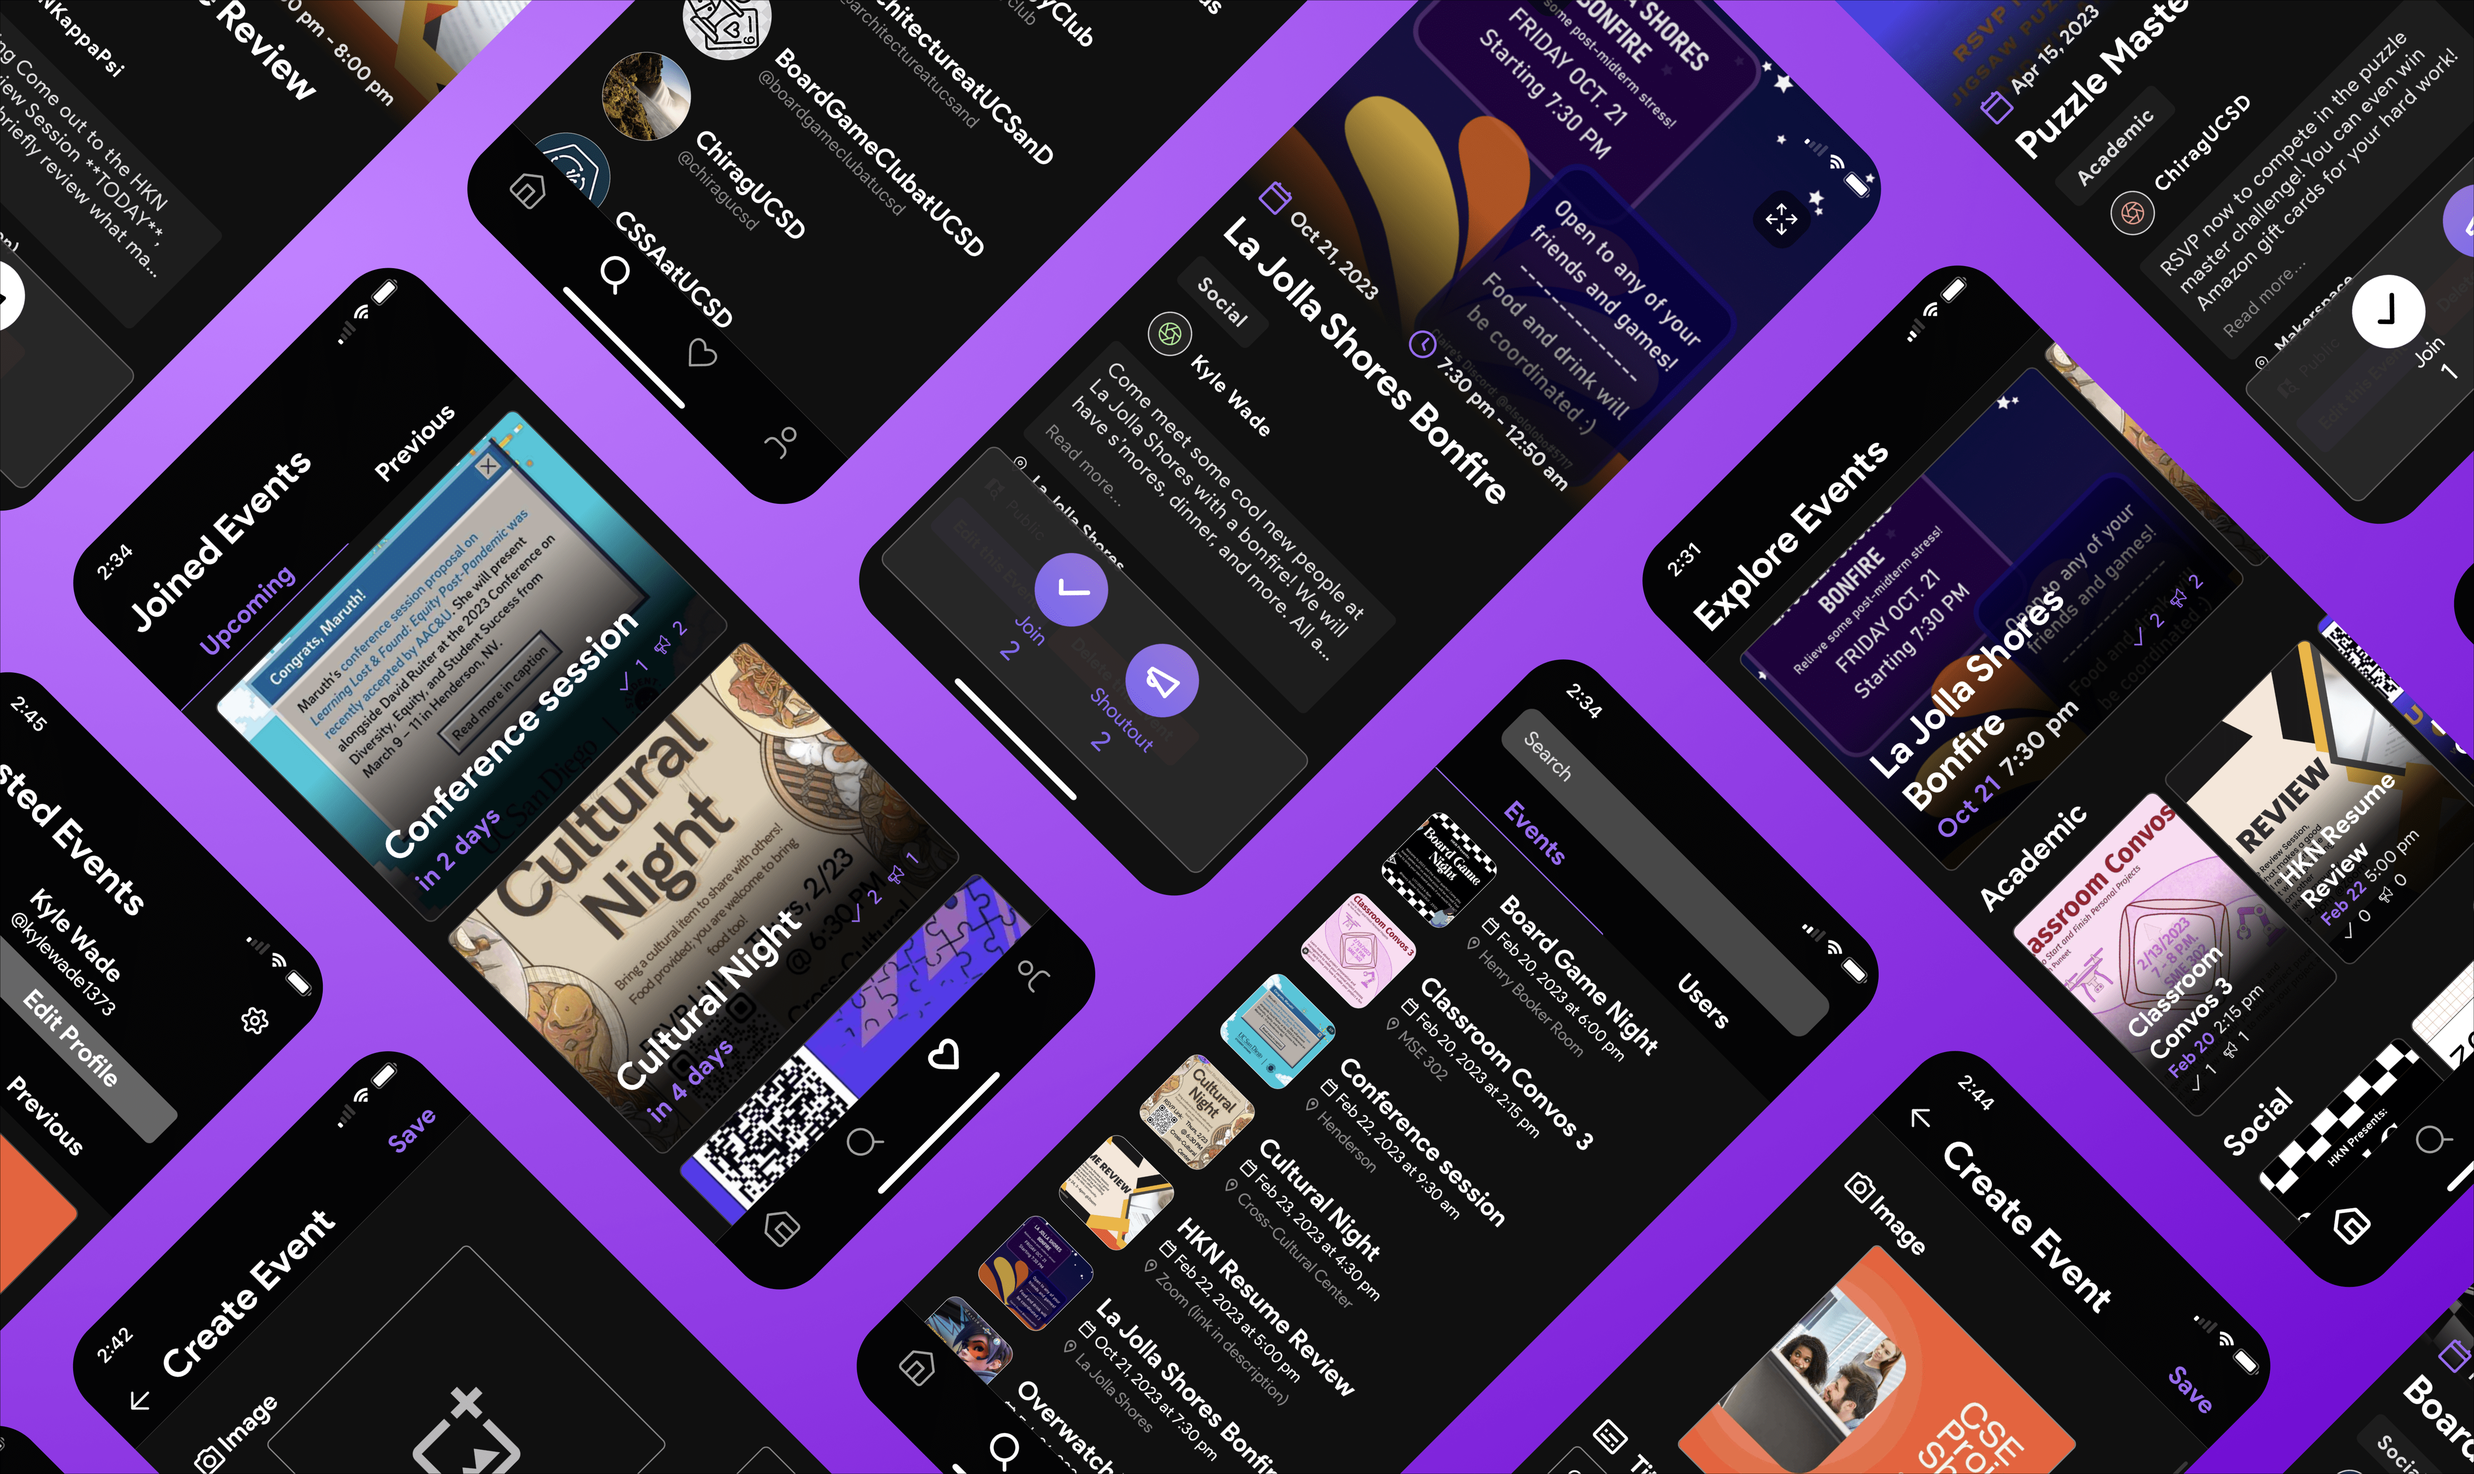
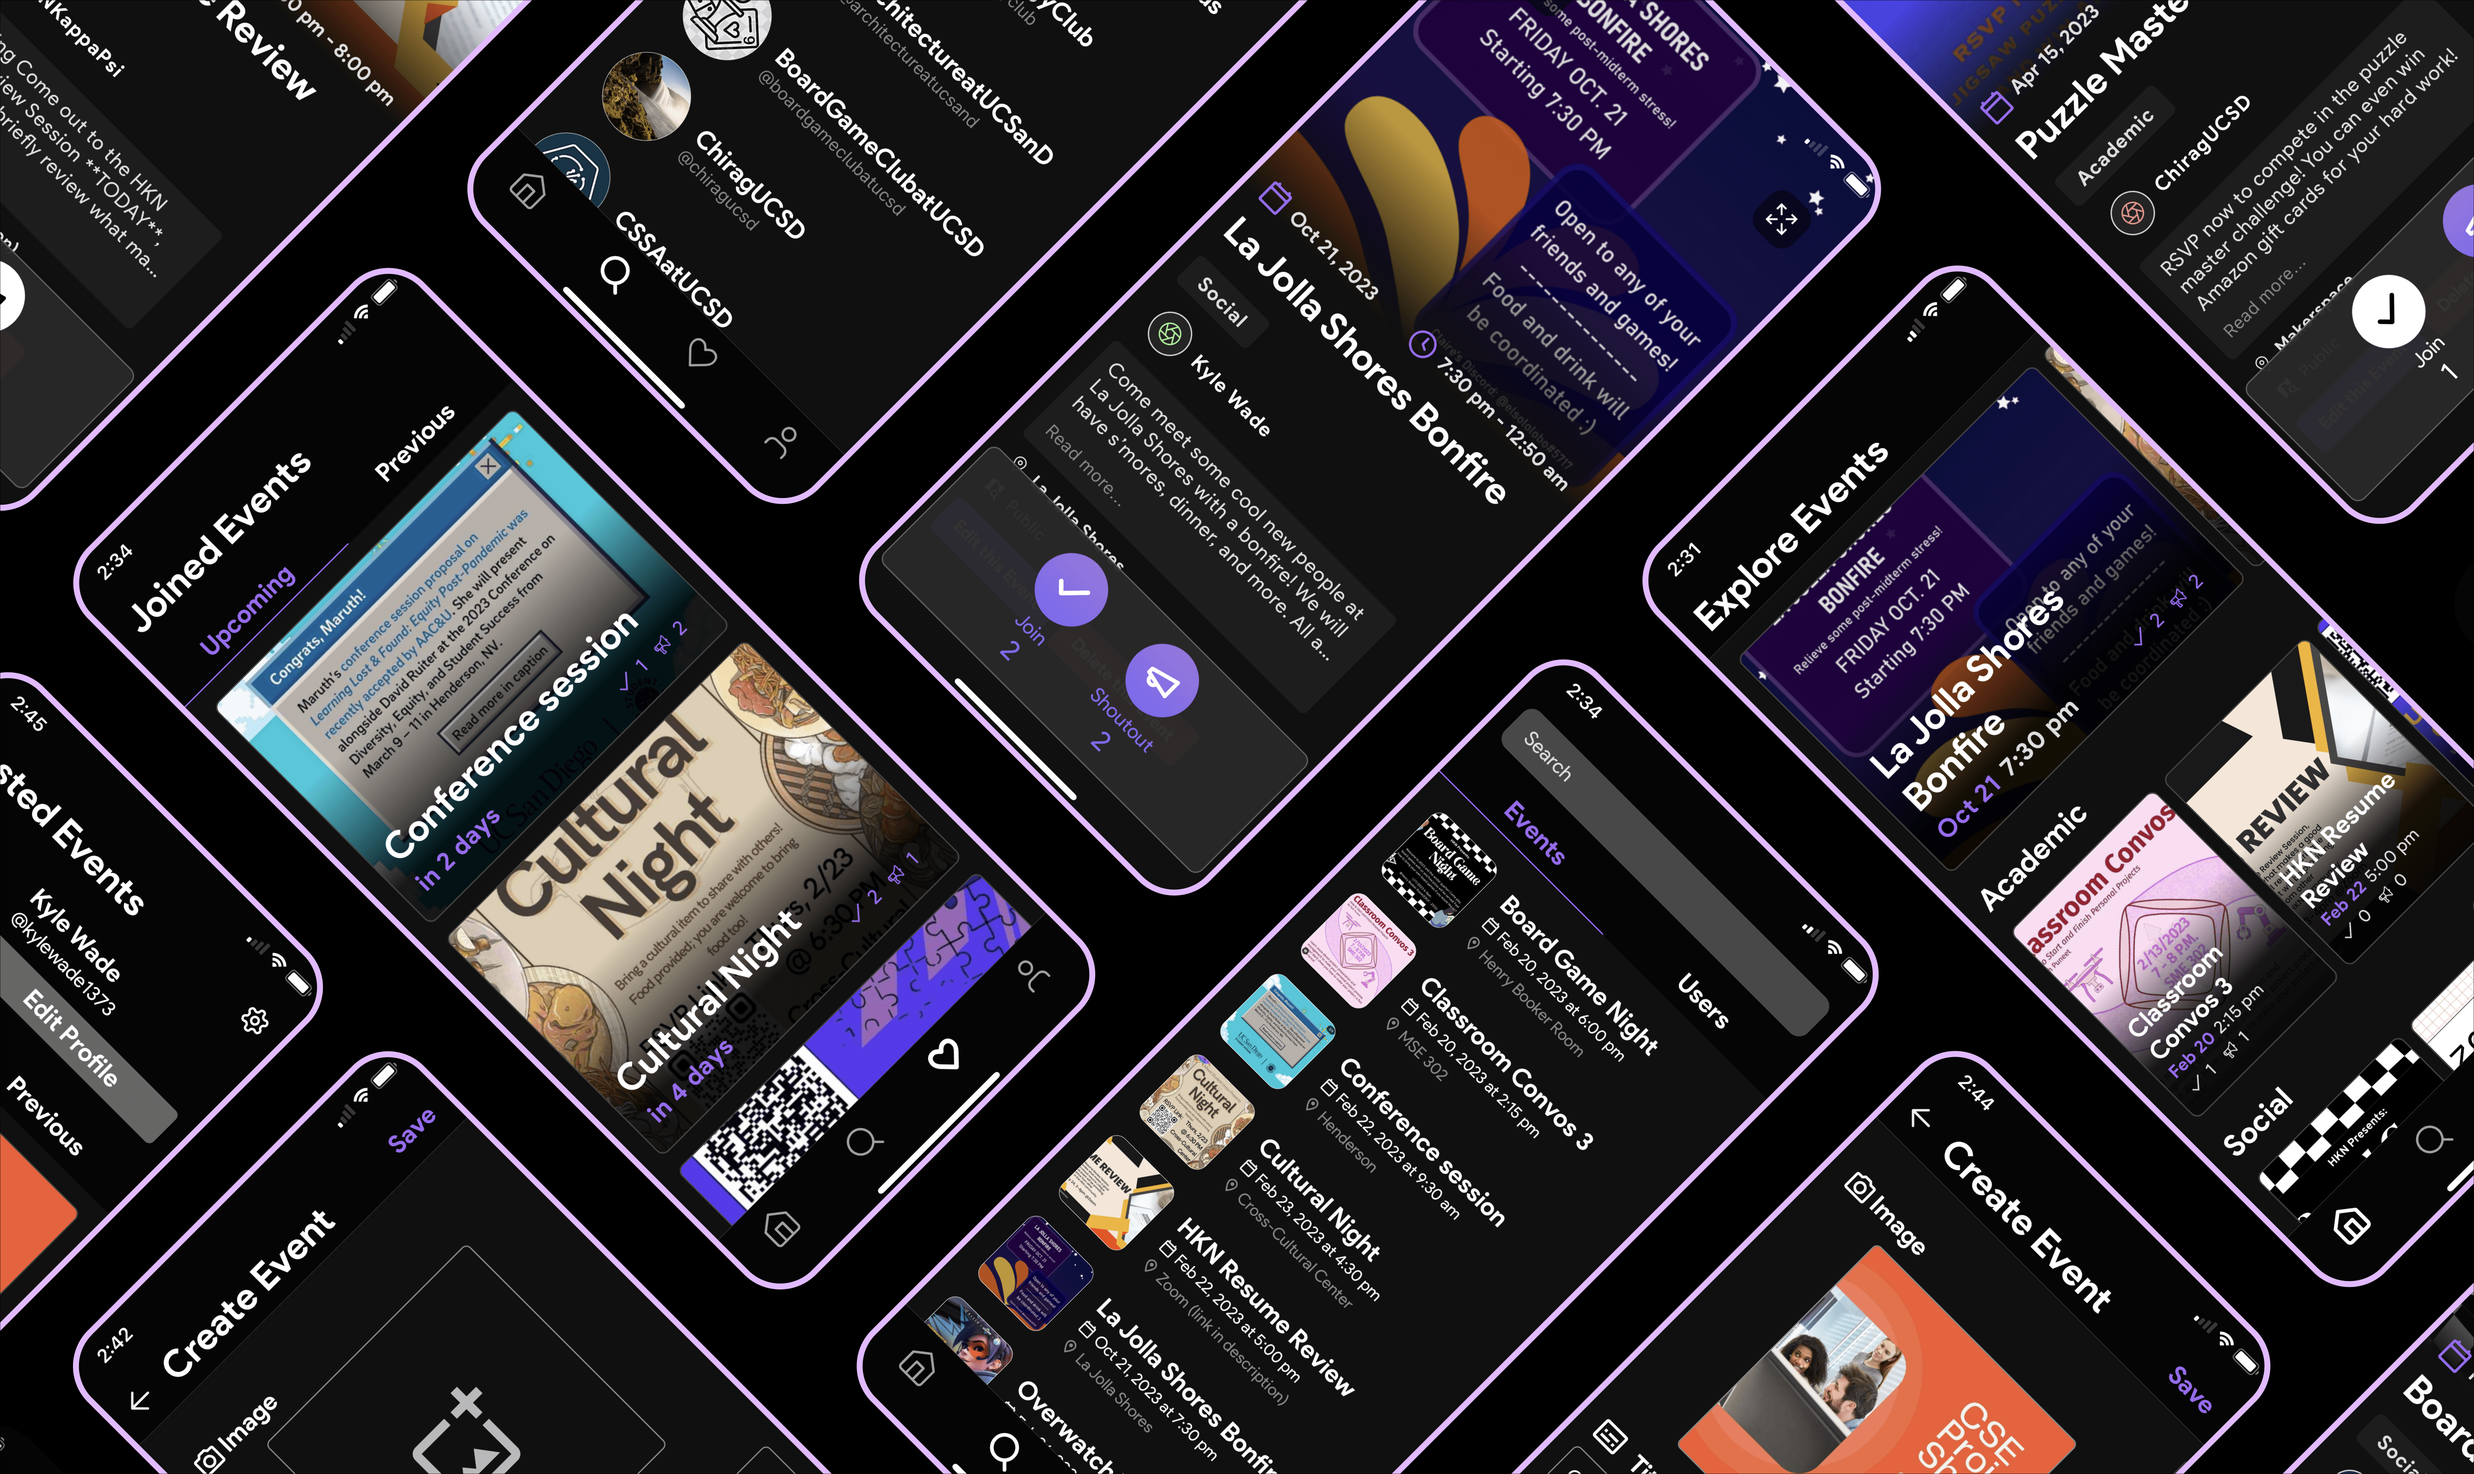
changed background and descriptions

Changed region(s): [[0.0, 0.0, 1.0, 1.0], [0.8704, 0.6246, 0.9015, 0.6559], [0.7771, 0.4372, 0.8082, 0.4685]]

diff --git a/src/components/demo/Demo.js b/src/components/demo/Demo.js
@@ -24,17 +24,17 @@ const Demo = () => {
             <div className="demo-left" data-aos="fade-right">
                 <h1>Calendar</h1>
               <img src={joinedEvents} alt="Calendar" />
-              <h2>Have an organized calendar of all the events you plan on attending.</h2>
+              <h2>Keep track of your planned events.</h2>
             </div>
             <div className="demo-middle" data-aos="fade-up">
-                <h1>Search</h1>
+                <h1>Explore</h1>
                 <img src={searchEvents} alt="Search" />
-                <h2>Search for any upcoming event based on its title, description, location, and more.</h2>
+                <h2>Explore any upcoming event based on its title, description, location, and more.</h2>
             </div>
             <div className="demo-right" data-aos="fade-left">
                 <h1>Host</h1>
                 <img src={hostedEvents} alt="Tags" />
-                <h2>View all of your hosted events, with a list of the amount of people who are joining.</h2>
+                <h2>Manage your hosted events and guest lists.</h2>
             </div>
           </div>
         </div>

diff --git a/src/components/features/data.js b/src/components/features/data.js
@@ -7,7 +7,7 @@ export const FeatureListTop = [
     id: 1,
     icon: <FaHome color="#FFFFFF" size={22} />,
     heading: "A central hub for all your school's events",
-    text: "Always know whenever something new happens with a categorized front page design. No more digging around!",
+    text: "Always know whenever something new happens with our intuitive front page design. No more digging around!",
   },
   // {
   //   id: 2,
@@ -21,8 +21,8 @@ export const FeatureListBot = [
   {
     id: 3,
     icon: <MdConnectWithoutContact color="#FFFFFF" size={22} />,
-    heading: "Create events for anyone to everyone",
-    text: "Do you want to advertise a student org event? What about a casual lunch meetup? Anyone can create an event, whether big or small!",
+    heading: "Events for everyone",
+    text: "Want to advertise a student org event? A casual lunch meetup? Anyone can create an event, big or small!",
   }
   
 ];
